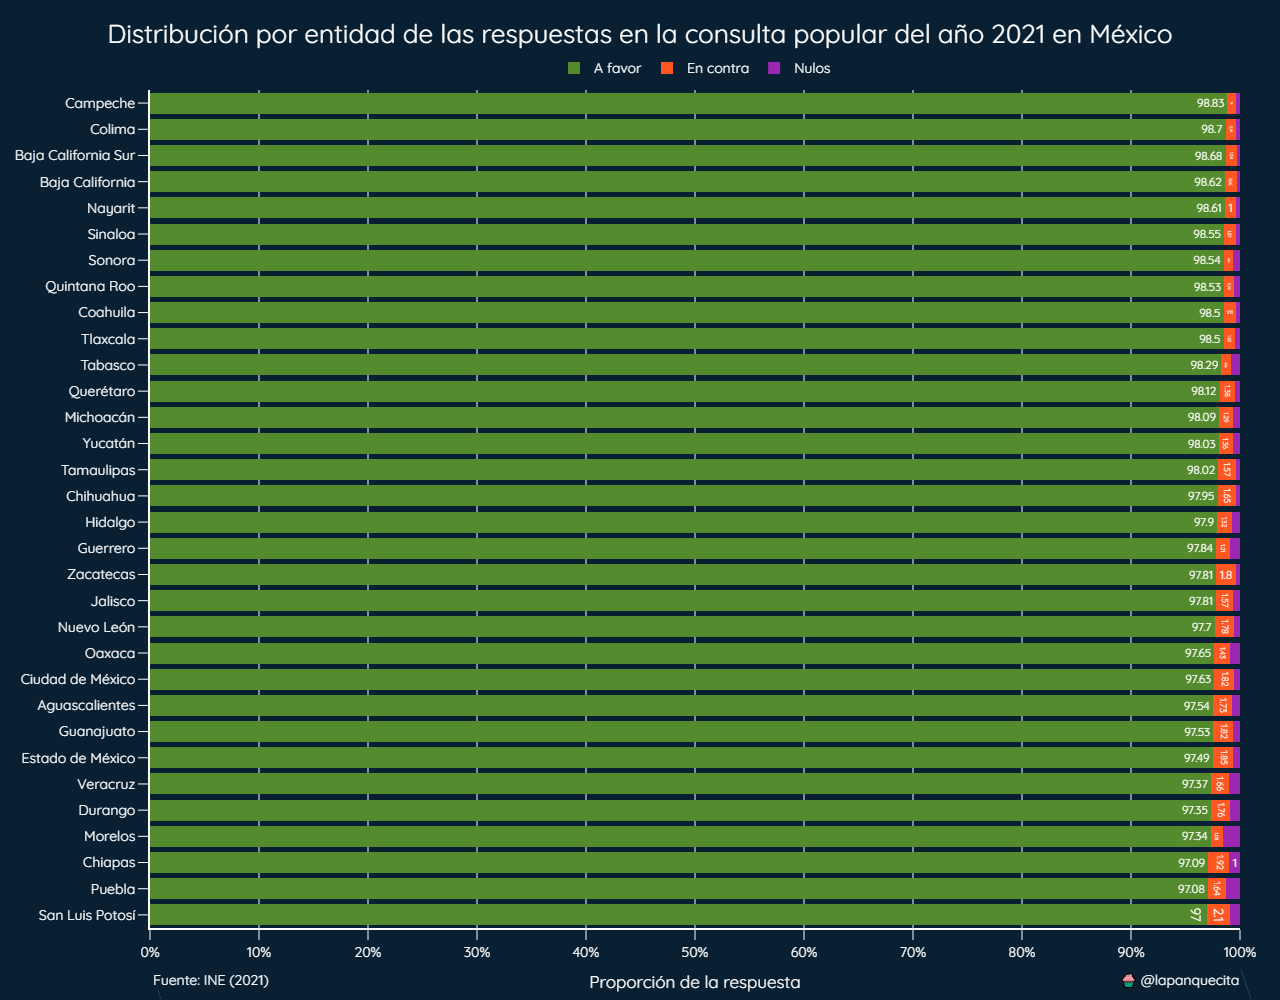
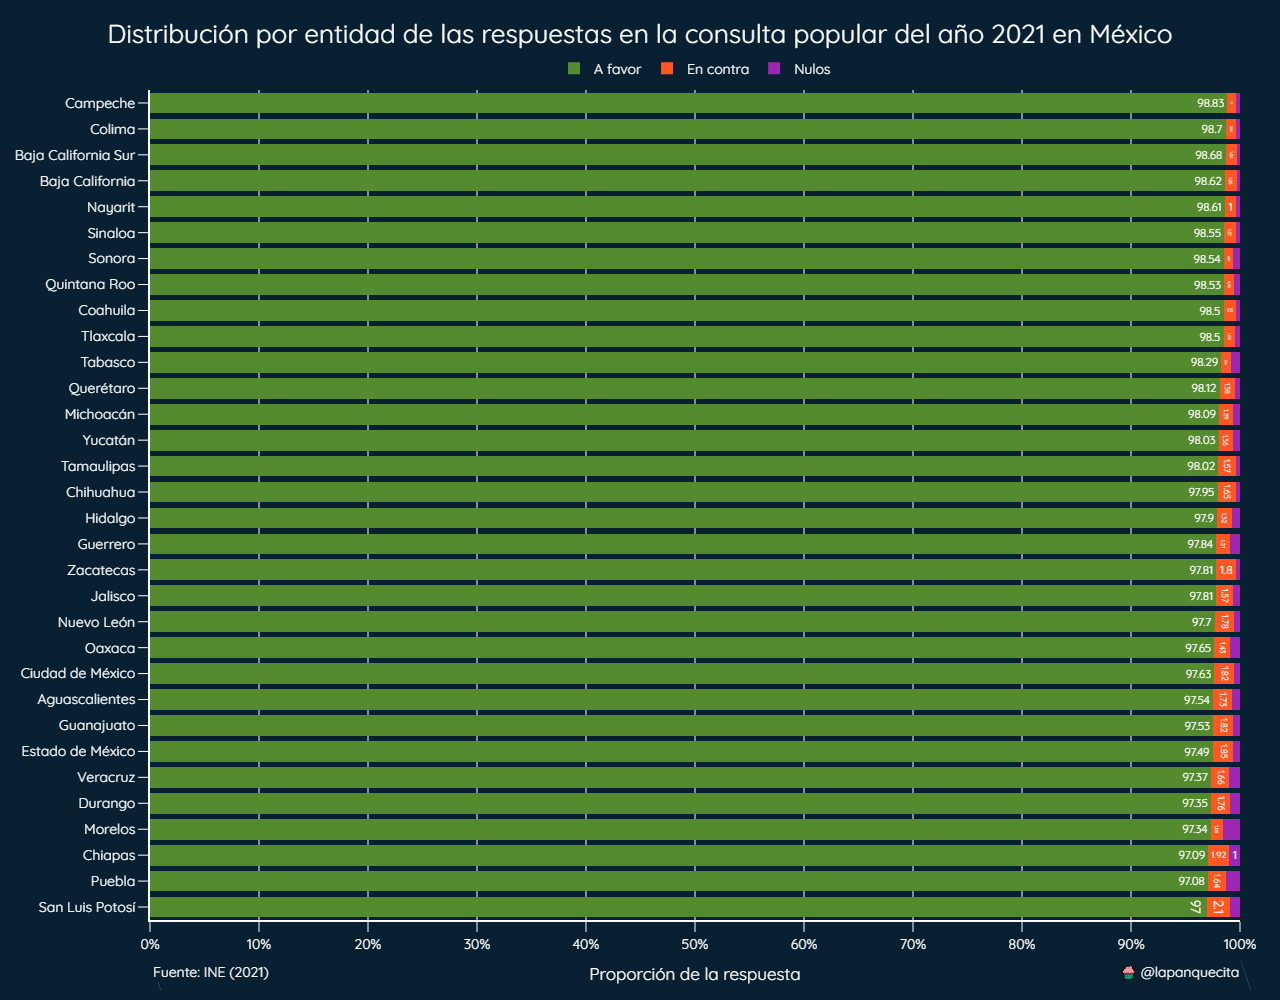
Add files via upload

diff --git a/consulta2021.py b/consulta2021.py
@@ -430,7 +430,7 @@ def create_bars():
         margin_t=90,
         margin_l=150,
         margin_r=40,
-        margin_b=70,
+        margin_b=80,
         title_font_size=26,
         paper_bgcolor="#082032",
         plot_bgcolor="#082032",

diff --git a/consulta2022.py b/consulta2022.py
@@ -431,7 +431,7 @@ def create_bars():
         margin_t=90,
         margin_l=150,
         margin_r=40,
-        margin_b=70,
+        margin_b=80,
         title_font_size=26,
         paper_bgcolor="#082032",
         plot_bgcolor="#082032",
